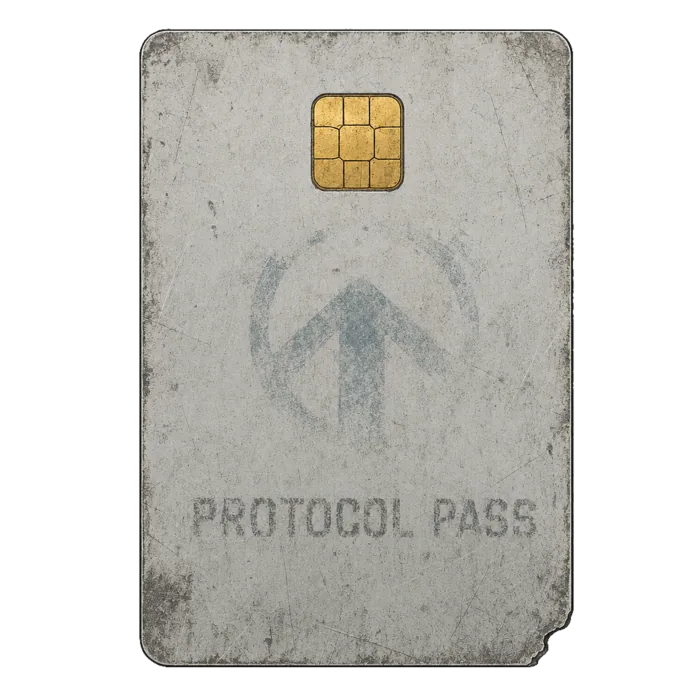
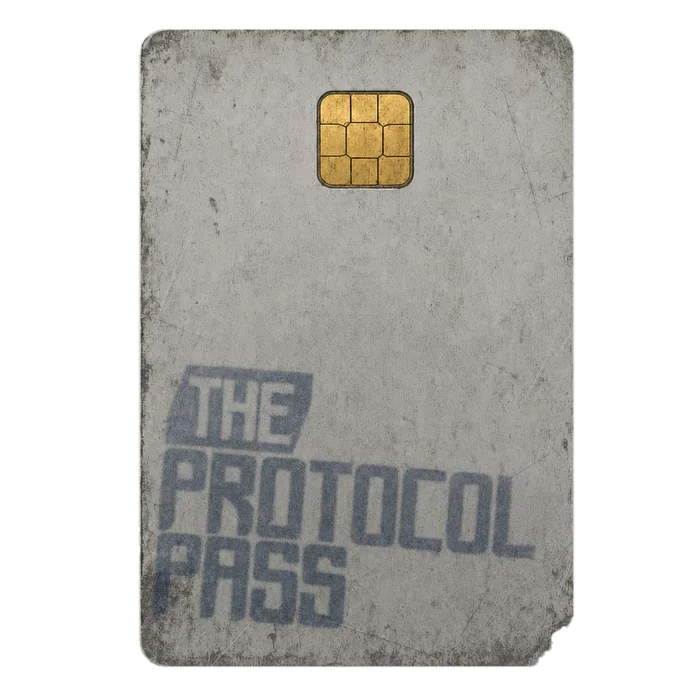
부팅 로딩 v2 · 공지 화면 v2 · 패스 카드/아이콘 교체
부팅 로딩 (screen-boot-loading{1,3,4}.svg)
- 배경(원경)과 몬스터(근경) 사이에 로고 'THE PROTOCOL PASS' 고정 삽입(흰색 벡터 13패스)
- 이미지 배치를 어림값(cover·%)에서 svg 좌표 그대로로 교체 — 패턴 매트릭스를 역산해 산출
  001 bg(-32.79,0,467.58x828) fg(-176.56,36,564.11x601)
  003 bg(-110.92,0,623.83x828) fg(-118.56,83.31,578.56x616.39)
  004 bg(0.24,-131.15,722.53x959) fg(-20.56,208.62,581.56x619.38)
- 004 송신탑 파수꾼 세트 신설. 켄번즈를 절반 속도로(28s→56s), 위치는 바닥 정렬
- 002(눈먼 광신도) 세트 폐지 — 메인 타이틀로 이관됨. 원본 png는 art_src/loading/title/로 이동
- fgCover·fgScale 보정값 제거(좌표가 정확해져 불필요)

공지 화면 (screen-update-notice.svg)
- 파란 판(402x174) + 그라데이션(y174~266) + 오렌지 로고 + 두꺼비(좌우 반전)를 상단 고정
- 레이어 순서를 svg 문서 순서대로: [목록] < 파란판 < 그라데이션 < 로고 < 두꺼비
  목록이 그라데이션을 지나며 배너 뒤로 사라진다
- 로고는 부팅 로딩과 같은 패스를 0.7118배로 재사용, 두꺼비는 003 로딩 전경을 재사용(새 파일 없음)
- 구 THE 404 배너와 UPDATE 라벨 제거

프로토콜 패스 카드
- protocol_pass_alpha2 로 교체. 태그 결제(476x700)·충전 화면(700x700 정사각 안 437x640) 각각
  기존 캔버스 규격을 유지해 레이아웃 변경 없음
- 카드 URL 3곳에 ?v=2 — 파일명이 같아 캐시된 옛 이미지가 계속 보이던 문제

홈 화면 아이콘
- icon-192/512 를 새 로고로 교체(34KB→3.8KB, 198KB→9.5KB)
- manifest·apple-touch-icon 에 ?v=2. 단 기존 홈 화면 바로가기는 iOS가 설치 시점에 굽기 때문에
  지우고 다시 추가해야 새 아이콘이 보인다

공지(PATCH_NOTES) 변경 없음.

Changed region(s): [[0.18, 0.03, 0.84, 0.96]]

diff --git a/rl.dc.html b/rl.dc.html
@@ -7,8 +7,8 @@
 <meta name="mobile-web-app-capable" content="yes">
 <meta name="apple-mobile-web-app-status-bar-style" content="black-translucent">
 <meta name="theme-color" content="#16171b">
-<link rel="manifest" href="manifest.json">
-<link rel="apple-touch-icon" href="assets/icon-192.png">
+<link rel="manifest" href="manifest.json?v=2">
+<link rel="apple-touch-icon" href="assets/icon-192.png?v=2">
 <title>404: 두 번째 불을 찾아서</title>
 <script src="./support.js"></script>
 </head>
@@ -145,18 +145,38 @@ const PRELOAD = [
    'assets/art/card_back/monster_back.webp','assets/art/card_back/item_back.webp',
    'assets/art/card_back/flee_back.webp','assets/art/card_back/pvp_back.webp'],
   // 3순위 — 태그/패스 화면(무겁고 진입이 늦다)
-  ['assets/art/ui/tap_terminal.webp','assets/art/cards/protocol_pass_full.webp',
+  ['assets/art/ui/tap_terminal.webp','assets/art/cards/protocol_pass_full.webp?v=2',
    SFX.card_insert, SFX.tap_terminal_done]
 ];
 // 부팅 로딩 패럴랙스 세트 — 부팅할 때마다 랜덤 1개. 패럴랙스(2레이어+자이로)는 부팅 전용이고,
 // 출정 로딩은 항상 단일 레이어 켄번즈(해당 존 스폰 몬스터 아트)를 쓴다.
-// fgCover: false=독수리 전용 좌표(상단 좌측 걸침) / true=하단 중앙 원본비율 cover.
-// fgScale: fgCover 전경의 크기 배율(기준 높이 58%). 배경 대비 피사체가 작게 그려진 아트는 여기서 키운다.
+// 부팅 로딩 패럴랙스 3세트. 좌표·크기는 art_src/loading/svg/screen-boot-loading{1,3,4}.svg 를
+// 402x828 기준으로 역산한 값(패턴 매트릭스 → 실제 그리기 위치). 어림 배치가 아니라 원본 그대로다.
+// 레이어 순서 = 배경(원경) → 로고(고정) → 몬스터(근경). 002(눈먼 광신도)는 메인 타이틀로 이관되어 폐지.
 const BOOT_SETS = [
-  { bg:'assets/art/loading/booting/001/haram_city.webp', fg:'assets/art/loading/booting/001/haram_eagle.webp?v=2', fgCover:false },
-  { bg:'assets/art/loading/booting/002/bg.webp?v=2',     fg:'assets/art/loading/booting/002/fg.webp?v=2',          fgCover:true, fgScale:1.5 },
-  { bg:'assets/art/loading/booting/003/bg.webp',         fg:'assets/art/loading/booting/003/fg.webp',              fgCover:true, fgScale:1.5 }
+  { bg:{src:'assets/art/loading/booting/001/haram_city.webp',   x:-32.79, y:   0.00, w:467.58, h:828.00},
+    fg:{src:'assets/art/loading/booting/001/haram_eagle.webp?v=2', x:-176.56, y: 36.00, w:564.11, h:601.00} },
+  { bg:{src:'assets/art/loading/booting/003/bg.webp',           x:-110.92, y:  0.00, w:623.83, h:828.00},
+    fg:{src:'assets/art/loading/booting/003/fg.webp',           x:-118.56, y: 83.31, w:578.56, h:616.39} },
+  { bg:{src:'assets/art/loading/booting/004/bg.webp',           x:   0.24, y:-131.15, w:722.53, h:959.00},
+    fg:{src:'assets/art/loading/booting/004/fg.webp',           x: -20.56, y:208.62, w:581.56, h:619.38, ken:56} }   // 켄번즈 절반 속도(28s→56s) · y는 바닥 정렬(828-619.38). svg 원본값은 110.31
 ];
+// 부팅 로딩 로고 'THE PROTOCOL PASS'(흰색) — svg 아웃라인 패스 13개. 잉크 x14..373.7 / y28..282.
+// 배경과 몬스터 사이에 고정으로 깔린다(패럴랙스 안 먹음).
+const BOOT_LOGO=[
+'M14 197.323V121.301C14 117.757 16.9219 114.861 20.4969 114.861H49.1028C52.6777 114.861 55.5996 117.757 55.5996 121.301V150.679C55.5996 154.223 52.6777 157.119 49.1028 157.119H29.6848L26.9937 151.974V190.877C26.9937 194.421 24.0718 197.317 20.4969 197.317H14V197.323ZM42.6059 130.139C42.4938 128.805 41.3725 127.779 39.994 127.779H21.8028L26.9937 130.407V144.24H42.6059V130.139Z',
+'M88.0434 197.323V172.632L72.4312 157.197V190.884C72.4312 194.427 69.5093 197.323 65.9344 197.323H59.4375V114.861H94.5403C98.1152 114.861 101.037 117.757 101.037 121.301V150.679C101.037 154.223 98.1152 157.119 94.5403 157.119H90.7345L101.037 167.369V190.877C101.037 194.421 98.1152 197.317 94.5403 197.317H88.0434V197.323ZM88.0434 130.139C87.9313 128.805 86.81 127.779 85.4315 127.779H67.2469L72.4378 130.407V144.24H88.05V130.139H88.0434Z',
+'M111.374 197.323C107.799 197.323 104.877 194.427 104.877 190.884V121.301C104.877 117.797 107.799 114.861 111.374 114.861H139.98C143.555 114.861 146.477 117.797 146.477 121.301V190.884C146.477 194.427 143.555 197.323 139.98 197.323H111.374ZM133.483 127.779H120.489C119.064 127.779 117.877 128.923 117.877 130.335V181.777L112.686 184.445H133.483V127.779Z',
+'M164.614 197.322V130.184C164.614 128.962 163.618 127.935 162.345 127.785H150.314V114.867H191.914V127.785H172.424L177.614 130.413V197.322H164.621H164.614Z',
+'M202.251 197.323C198.676 197.323 195.754 194.427 195.754 190.884V121.301C195.754 117.797 198.676 114.861 202.251 114.861H230.857C234.432 114.861 237.354 117.797 237.354 121.301V190.884C237.354 194.427 234.432 197.323 230.857 197.323H202.251ZM224.353 127.779H211.36C209.935 127.779 208.748 128.923 208.748 130.335V181.777L203.557 184.445H224.353V127.779Z',
+'M247.688 197.323C244.113 197.323 241.191 194.427 241.191 190.884V121.301C241.191 117.797 244.113 114.861 247.688 114.861H282.791V127.779H248.994L254.185 130.407V181.888C254.185 183.301 255.379 184.445 256.797 184.445H282.784V197.323H247.682H247.688Z',
+'M304.314 197.322C294.585 197.322 286.631 189.471 286.631 179.835V132.394C286.631 122.751 294.592 114.867 304.314 114.867H310.58C320.269 114.867 328.224 122.758 328.224 132.394V179.835C328.224 189.478 320.263 197.322 310.58 197.322H304.314ZM315.23 181.888V130.446L320.421 127.778H299.625V181.777L294.434 184.444H312.618C314.043 184.444 315.23 183.3 315.23 181.888Z',
+'M338.559 197.323C334.984 197.323 332.062 194.427 332.062 190.884V114.861H338.559C342.134 114.861 345.056 117.797 345.056 121.301V181.771L339.865 184.438H373.662V197.317H338.559V197.323Z',
+'M14 281.987V205.965C14 202.421 16.9219 199.525 20.4969 199.525H49.1028C52.6777 199.525 55.5996 202.421 55.5996 205.965V235.343C55.5996 238.887 52.6777 241.783 49.1028 241.783H29.6848L26.9937 236.638V275.541C26.9937 279.085 24.0718 281.981 20.4969 281.981H14V281.987ZM42.6059 214.81C42.4938 213.476 41.3725 212.45 39.994 212.45H21.8028L26.9937 215.078V228.911H42.6059V214.81Z',
+'M88.0446 281.987V244.378C88.0446 242.966 86.8508 241.789 85.4327 241.789H67.2481L72.439 244.456V275.548C72.439 279.091 69.5171 281.987 65.9422 281.987H59.4453V205.965C59.4453 202.461 62.3672 199.525 65.9422 199.525H94.5481C98.123 199.525 101.045 202.461 101.045 205.965V275.548C101.045 279.091 98.123 281.987 94.5481 281.987H88.0512H88.0446ZM88.0446 226.355V212.443H75.0509C73.6263 212.443 72.439 213.587 72.439 214.999V228.911H85.4327C86.8574 228.911 88.0446 227.767 88.0446 226.355Z',
+'M111.374 281.986C107.799 281.986 104.877 279.09 104.877 275.547V251.085H115.298C116.723 251.085 117.877 252.229 117.877 253.673V266.552C117.877 267.964 119.071 269.108 120.489 269.108H138.562L133.489 266.519V241.788H111.38C107.805 241.788 104.884 238.892 104.884 235.349V205.97C104.884 202.466 107.805 199.531 111.38 199.531H139.986C143.561 199.531 146.483 202.466 146.483 205.97V221.176H133.489V214.815C133.377 213.482 132.256 212.456 130.878 212.456H112.693L117.884 215.084V226.36C117.884 227.733 119.038 228.877 120.423 228.916H139.993C143.568 228.916 146.49 231.813 146.49 235.356V275.56C146.49 279.104 143.568 282 139.993 282H111.387L111.374 281.986Z',
+'M156.811 281.986C153.236 281.986 150.314 279.09 150.314 275.547V251.085H160.736C162.16 251.085 163.315 252.229 163.315 253.673V266.552C163.315 267.964 164.509 269.108 165.927 269.108H183.999L178.927 266.519V241.788H156.818C153.243 241.788 150.321 238.892 150.321 235.349V205.97C150.321 202.466 153.243 199.531 156.818 199.531H185.424C188.999 199.531 191.921 202.466 191.921 205.97V221.176H178.927V214.815C178.815 213.482 177.694 212.456 176.315 212.456H158.13L163.321 215.084V226.36C163.321 227.733 164.476 228.877 165.861 228.916H185.43C189.005 228.916 191.927 231.813 191.927 235.356V275.56C191.927 279.104 189.005 282 185.43 282H156.824L156.811 281.986Z',
+'M28.0424 28L14.8574 80.1351V110.377H133.291L146.47 58.2416V28H28.0424ZM62.2152 47.9911H47.6187L51.5036 49.9589V100.061H41.7748V49.7889C41.7748 48.8737 41.0295 48.1023 40.0797 47.9911H31.0699V38.3224H62.2152V47.9911ZM96.2429 95.2363C96.2429 97.8905 94.0531 100.061 91.3752 100.061H86.5075V69.9631H70.9348L74.8197 71.9635V95.2429C74.8197 97.897 72.6299 100.067 69.952 100.067H65.0843V38.3224H74.8131V60.3205H86.5009V38.3224H96.2297V95.2429L96.2429 95.2363ZM130.264 47.9911H110.806C109.738 47.9911 108.847 48.8475 108.847 49.9V60.314H125.396V69.9565H104.956L108.841 71.9569V90.4183H130.257V100.061H99.112V43.1404C99.112 40.5124 101.302 38.3159 103.98 38.3159H130.264V47.9846V47.9911Z'];
 // 메인 타이틀에 랜덤 재생할 영상(둘 중 하나). monster/mp4 → assets/art/loading/title/.
 // 메인 타이틀 배경 — 애니메이션 WebP(2026-08-17 mp4에서 전환). 806x806 · 6fps · 24프레임.
 // mp4 13.1MB -> 1.8MB. <img> 한 장이라 자동재생 정책·preload·play() 처리가 통째로 필요 없다.
@@ -177,7 +197,7 @@ const TITLE_LOGO=[
 'M170.064 343C166.208 343 163.056 339.876 163.056 336.053V309.663H174.298C175.835 309.663 177.08 310.897 177.08 312.456V326.349C177.08 327.872 178.368 329.107 179.898 329.107H199.394L193.923 326.314V299.635H170.072C166.215 299.635 163.063 296.51 163.063 292.688V260.994C163.063 257.214 166.215 254.048 170.072 254.048H200.931C204.788 254.048 207.94 257.214 207.94 260.994V277.398H193.923V270.536C193.802 269.098 192.592 267.99 191.105 267.99H171.488L177.087 270.826V282.991C177.087 284.472 178.333 285.706 179.827 285.748H200.938C204.795 285.748 207.947 288.873 207.947 292.695V336.067C207.947 339.89 204.795 343.014 200.938 343.014H170.079L170.064 343Z',
 'M31.1487 69L16.9248 125.243V157.867H144.69L158.907 101.624V69H31.1487ZM68.014 90.5663H52.2674L56.4584 92.689V146.739H45.9631V92.5057C45.9631 91.5183 45.159 90.6861 44.1344 90.5663H34.4147V80.1357H68.014V90.5663ZM104.723 141.534C104.723 144.397 102.36 146.739 99.4715 146.739H94.2203V114.269H77.4206L81.6116 116.427V141.541C81.6116 144.404 79.2493 146.746 76.3604 146.746H71.1092V80.1357H81.6045V103.867H94.2132V80.1357H104.708V141.541L104.723 141.534ZM141.424 90.5663H120.434C119.281 90.5663 118.32 91.4901 118.32 92.6256V103.86H136.173V114.262H114.122L118.313 116.42V136.336H141.417V146.739H107.818V85.3334C107.818 82.4983 110.18 80.1287 113.069 80.1287H141.424V90.5592V90.5663Z'];
 // 타이틀 버전 표기 "ver A0.0001 (-MMDD)". 배포할 때마다 TITLE_VER +1, TITLE_DATE=배포 월일.
-const TITLE_VER = 14;
+const TITLE_VER = 15;
 const TITLE_DATE = '0819';
 // 업데이트 공지(screen-update-notice.svg) — 부팅 로딩 종료 후 1회 표시.
 // 배포할 때마다 TITLE_VER와 세트로 맨 앞에 새 블록 추가. 이모지 금지, 한 항목 = KR 한 줄 + EN 한 줄.
@@ -773,17 +793,21 @@ class Component extends DCLogic {
     this._bootBgEl=null; this._bootFgEl=null; this._gyroOn=false; }
   // 공용 로딩 뷰 (svg screen-boot-loading 기준): 배경 + 하단 그라데이션(이미지 덮개) + 팁(라벨+숫자·본문) + 최하단 풀폭 프로그레스
   loadingView(opts){ opts=opts||{};
-    return h('div',{onClick:opts.onTap||null,style:{flex:1,position:'relative',overflow:'hidden',background:T.bg,cursor:opts.onTap?'pointer':'default'}},
-      // 패럴랙스 2레이어(부팅): 배경(도시) + 전경(독수리). 자이로로 서로 다르게 이동, 독수리는 아주 느린 확대.
-      opts.bg? h('div',{ref:opts.bgRef,style:{position:'absolute',inset:0,willChange:'transform'}},
-        h('div',{style:{position:'absolute',inset:'-7%',backgroundImage:'url('+opts.bg+')',backgroundSize:'cover',backgroundPosition:'center'}})):null,
-      opts.fg? (opts.fgCover
-        // 부팅 세트 002(눈먼 광신도)·003(부푼 두꺼비): 원본 비율 유지 하단 중앙. 독수리 같은 특수 좌표 없이 제공 비율대로.
-        ? h('div',{ref:opts.fgRef,style:{position:'absolute',inset:0,display:'flex',alignItems:'flex-end',justifyContent:'center',willChange:'transform',pointerEvents:'none'}},
-            h('img',{src:opts.fg,style:{height:(58*(opts.fgScale||1)).toFixed(1)+'%',width:'auto',objectFit:'contain',display:'block',transformOrigin:'50% 100%',animation:'rlKenBurns 28s ease-out both'}}))
-        // 부팅 독수리: svg screen-boot-loading 좌표(상단 좌측 걸침)
-        : h('div',{ref:opts.fgRef,style:{position:'absolute',left:'-43.8%',top:0,width:'143.8%',willChange:'transform',pointerEvents:'none'}},
-            h('img',{src:opts.fg,style:{width:'100%',display:'block',transformOrigin:'50% 32%',animation:'rlKenBurns 28s ease-out both'}}))):null,
+    return h('div',{onClick:opts.onTap||null,style:{flex:1,position:'relative',overflow:'hidden',background:'#18191D',cursor:opts.onTap?'pointer':'default'}},
+      // 패럴랙스 3레이어(부팅): 배경(원경) → 로고(고정) → 몬스터(근경).
+      // 좌표는 svg 원본(402x828) 그대로 — 402폭 스테이지를 프레임 폭에 맞춰 균일 스케일(상단 앵커).
+      // 스테이지 아래로 남는 띠는 컨테이너 배경(#18191D)이 채운다 — 하단 그라데이션 끝색과 같아 이음매가 없다.
+      opts.bg? h('div',{ref:el=>{ if(el){ const pw=el.parentElement&&el.parentElement.clientWidth; if(pw) el.style.transform='scale('+(pw/402)+')'; } },
+        style:{position:'absolute',left:0,top:0,width:402,height:828,transformOrigin:'0 0',pointerEvents:'none'}},
+        // 원경 — 자이로로 아주 조금 움직인다
+        h('div',{ref:opts.bgRef,style:{position:'absolute',inset:0,willChange:'transform'}},
+          h('img',{src:opts.bg.src,style:{position:'absolute',left:opts.bg.x,top:opts.bg.y,width:opts.bg.w,height:opts.bg.h,display:'block'}})),
+        // 로고 — 고정(패럴랙스·켄번즈 없음)
+        h('svg',{width:402,height:828,viewBox:'0 0 402 828',fill:'none',style:{position:'absolute',left:0,top:0}},
+          ...BOOT_LOGO.map((d,i)=>h('path',{key:i,d:d,fill:'#fff'}))),
+        // 근경(몬스터) — 자이로 + 아주 느린 확대
+        h('div',{ref:opts.fgRef,style:{position:'absolute',inset:0,willChange:'transform'}},
+          h('img',{src:opts.fg.src,style:{position:'absolute',left:opts.fg.x,top:opts.fg.y,width:opts.fg.w,height:opts.fg.h,display:'block',transformOrigin:'50% 100%',animation:'rlKenBurns '+(opts.fg.ken||28)+'s ease-out both'}}))):null,
       // 단일 배경(출정 전용): 몬스터 아트 켄번즈(천천히 확대)
       (!opts.bg&&opts.bgImage)? h('div',{style:{position:'absolute',inset:0,backgroundImage:'url('+opts.bgImage+')',backgroundSize:'cover',backgroundPosition:'center',transformOrigin:'center',animation:'rlKenBurns 16s ease-out both'}}):null,
       // 하단 그라데이션 — 이미지를 덮어 텍스트 가독성 확보(y486~828 투명→#18191D)
@@ -841,7 +865,7 @@ class Component extends DCLogic {
     if(!this._bootTip) this._bootTip = this.pickTip ? this.pickTip() : (this.en()?TIP_FALLBACK[0][1]:TIP_FALLBACK[0][0]);
     if(!this._bootSet) this._bootSet = BOOT_SETS[Math.floor(Math.random()*BOOT_SETS.length)];
     return this.phone(this.loadingView({
-      bg:this._bootSet.bg, fg:this._bootSet.fg, fgCover:this._bootSet.fgCover, fgScale:this._bootSet.fgScale,
+      bg:this._bootSet.bg, fg:this._bootSet.fg,
       bgRef:el=>{ this._bootBgEl=el; }, fgRef:el=>{ this._bootFgEl=el; if(el && !this._gyroOn){ this._gyroOn=true; this.startGyro(); } },
       tip:this._bootTip,
       fillRef:el=>{ if(el && !this._bootLoadStarted){ this._bootLoadStarted=true;
@@ -869,12 +893,10 @@ class Component extends DCLogic {
   }
   noticeModal(){
     return h('div',{style:{position:'absolute',inset:0,zIndex:60,background:'#111315',display:'flex',flexDirection:'column',overflow:'hidden',animation:'rlFade .22s ease-out'}},
-      // 스크롤 영역 — 배너부터 마지막 항목까지 함께 스크롤. 하단 박스 높이(95+16)만큼 여백.
-      h('div',{style:{flex:1,overflowY:'auto',WebkitOverflowScrolling:'touch'}},
-        h('div',{style:{position:'relative',height:118,flex:'0 0 auto',overflow:'hidden'}},
-          h('img',{src:'assets/art/loading/title/the404_title.webp',alt:'',style:{position:'absolute',left:'50%',top:0,width:118,height:118,transform:'translateX(-50%)',objectFit:'contain',pointerEvents:'none'}}),
-          h('div',{style:{position:'absolute',inset:0,background:'linear-gradient(180deg, rgba(24,25,29,0) 0%, #111315 100%)',pointerEvents:'none'}}),
-          h('div',{style:{position:'absolute',left:16,bottom:11,fontFamily:T.mono,fontSize:9,fontWeight:500,letterSpacing:'2.4px',color:'#4B4D52'}},'UPDATE')),
+      // 상단 고정 레이어는 스크롤 콘텐츠 '위'에 얹는다 — svg 문서 순서가
+      // [목록] < 파란판(174) < 그라데이션(174~266) < 로고 < 두꺼비 라, 글이 배너 밑으로 사라진다.
+      // 스크롤 영역은 화면 맨 위(y0)에서 시작하고 첫 칩 자리(y248)까지 패딩으로 비운다.
+      h('div',{style:{flex:1,overflowY:'auto',WebkitOverflowScrolling:'touch',paddingTop:248}},
         ...PATCH_NOTES.map((rel,ri)=>h('div',{key:'rel'+rel.ver,style:{paddingTop:ri?23:0}},
           this.noticeChips(rel, ri===0),
           h('div',{style:{padding:'0 16px'}},
@@ -883,6 +905,17 @@ class Component extends DCLogic {
               h('div',{style:{fontFamily:T.sans,fontSize:14,fontWeight:400,lineHeight:'16px',color:'#EAEBEE'}}, ln[0]),
               h('div',{style:{fontFamily:T.sans,fontSize:13,fontWeight:400,lineHeight:'15px',color:'#6F7276'}}, ln[1])))))),
         h('div',{style:{height:16}})),
+      // 파란 판 402x174
+      h('div',{style:{position:'absolute',left:0,top:0,width:'100%',height:174,background:'#002F75',pointerEvents:'none'}}),
+      // 그라데이션 y174~266 — 위=파랑 불투명 → 아래=투명. 스크롤되는 글이 배너로 자연스럽게 사라진다.
+      h('div',{style:{position:'absolute',left:0,top:174,width:'100%',height:92,background:'linear-gradient(180deg, #002F75 0%, rgba(24,25,29,0) 100%)',pointerEvents:'none'}}),
+      // 로고 — 부팅 로딩과 같은 패스를 0.7118배(svg 잉크 x16..272 / y26.5..207.3)로. 파란 판 아래로 걸친다.
+      h('svg',{width:402,height:266,viewBox:'0 0 402 266',fill:'none',style:{position:'absolute',left:0,top:0,pointerEvents:'none'}},
+        h('g',{transform:'translate(6.035 6.57) scale(0.7118)'},
+          ...BOOT_LOGO.map((d,i)=>h('path',{key:i,d:d,fill:'#CE794B'})))),
+      // 두꺼비 — 003 로딩 전경 재사용. 좌우 반전, svg rect(-1 0 0 1 384 38) 기준 x213 y38.
+      h('img',{src:'assets/art/loading/booting/003/fg.webp',alt:'',
+        style:{position:'absolute',left:213,top:38,width:171.2,height:182.8,transform:'scaleX(-1)',pointerEvents:'none'}}),
       // 하단 고정 확인 박스 — 안전가옥 인터페이스 규약(박스 #18191D r24 + pill #212227 h48)
       h('div',{style:{flex:'0 0 auto',margin:'0 16px 26px',padding:'23px 23px',boxSizing:'border-box',borderRadius:24,background:'#18191D',border:'1px solid #36383C'}},
         h('button',{onClick:()=>this.closeNotice(),style:{width:'100%',height:48,boxSizing:'border-box',borderRadius:999,border:'none',background:'#212227',color:'#EAEBEE',fontFamily:T.sans,fontSize:14,fontWeight:400,cursor:'pointer'}}, this.en()?'OK':'확인')));
@@ -3859,7 +3892,7 @@ void main(){
     // 카드 폭은 단말 규격의 342 고정, 높이는 각 아트 원본 비율.
     // 패스 635×933(0.681)→503 · 키카드 691×954(0.724)→472. 삽입 후 카드 바닥은 svg대로 y360.
     const CARD_W=342, CARD_H=key?472:503, CARD_Y=282, CARD_IN=360-CARD_H;
-    const cardArt = key ? 'assets/art/cards/item_police_keycard_tap.webp' : 'assets/art/cards/protocol_pass.webp';
+    const cardArt = key ? 'assets/art/cards/item_police_keycard_tap.webp' : 'assets/art/cards/protocol_pass.webp?v=2';
     const keyName = key ? (this.eng.anyName?this.eng.anyName(key):key) : null;
     const keyQty = key ? this.itemQty(key) : 0;
     const led = done ? {c:'#B1FF1F', glow:'177,255,31', anim:'rlLedBlink .34s steps(1,end) infinite'}
@@ -4053,7 +4086,7 @@ void main(){
           transform:'translateY('+(phase==='insert'?INS:0)+'px)', transition:CARD_TR, willChange:'transform',
           touchAction:'none', pointerEvents:dragOn?'auto':'none', cursor:dragOn?'grab':'default'}}),
           h('div',{style:{position:'absolute',left:-102,top:-21,width:525,height:525,
-            backgroundImage:'url(assets/art/cards/protocol_pass_full.webp)',backgroundSize:'100% 100%',backgroundRepeat:'no-repeat'}})),
+            backgroundImage:'url(assets/art/cards/protocol_pass_full.webp?v=2)',backgroundSize:'100% 100%',backgroundRepeat:'no-repeat'}})),
         // 단말 — 이 화면에서는 180° 뒤집어 쓴다(svg의 rotate(-180)). 태그 화면과 위아래가 반대다.
         h('div',{key:'term',style:{position:'absolute',left:16,top:-455,width:370,height:670,zIndex:2,transform:'rotate(180deg)',
           backgroundImage:'url(assets/art/ui/tap_terminal.webp)',backgroundSize:'100% 100%',backgroundRepeat:'no-repeat'}}),

diff --git a/index.html b/index.html
@@ -6,12 +6,12 @@
 <meta name="apple-mobile-web-app-capable" content="yes">
 <meta name="mobile-web-app-capable" content="yes">
 <title>가치의 역전</title>
-<meta http-equiv="refresh" content="0; url=./rl.dc.html?v=2026-08-19a">
+<meta http-equiv="refresh" content="0; url=./rl.dc.html?v=2026-08-19b">
 <!-- 배포 캐시버스트: 배포할 때마다 V 값을 갱신 (재방문자도 최신 rl.dc.html을 받도록) -->
-<script>var V='2026-08-19a';var s=location.search?location.search+'&v='+V:'?v='+V;location.replace('./rl.dc.html'+s+location.hash);</script>
+<script>var V='2026-08-19b';var s=location.search?location.search+'&v='+V:'?v='+V;location.replace('./rl.dc.html'+s+location.hash);</script>
 <style>html,body{margin:0;height:100%;background:oklch(0.120 0.005 264);color:#8a8f99;font-family:system-ui,sans-serif;display:flex;align-items:center;justify-content:center}a{color:#7fb2e6}</style>
 </head>
 <body>
-<a href="./rl.dc.html?v=2026-08-19a">불러오는 중… (자동 이동되지 않으면 여기를 누르세요)</a>
+<a href="./rl.dc.html?v=2026-08-19b">불러오는 중… (자동 이동되지 않으면 여기를 누르세요)</a>
 </body>
 </html>
